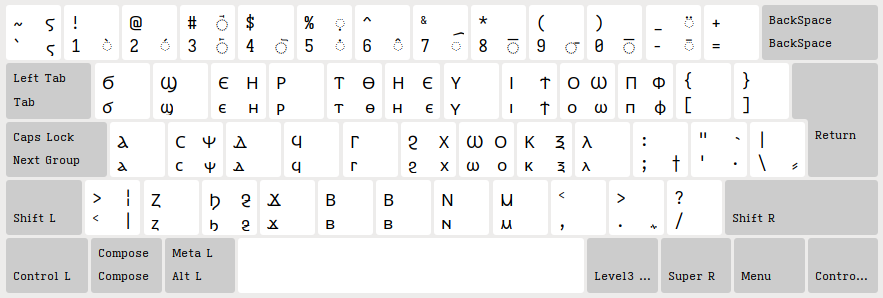
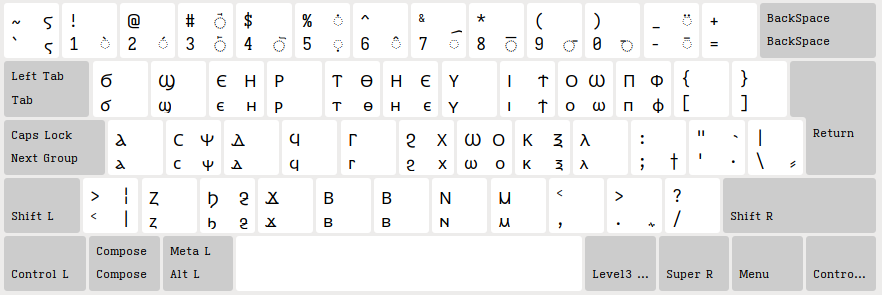
Fixed a few small issues with layout, updated readme

diff --git a/README.md b/README.md
@@ -13,12 +13,20 @@ The layout is based on QWERTY, with key assignments guided mostly by phonetic co
 
 Note:
 
-* right alt is used to input some characters. For example, the key labeled `t` normally produces a ⲧ, but with right alt you get a ⲑ
-* `v` and `b` are both mapped to ⲃ
+* `v` and `b` are both mapped to ⲃ (this might change in the future)
+* right alt (`AltGr`) is used to input some characters. For example, the key labeled `t` normally produces a ⲧ, but with right alt you get a ⲑ
+* `AltGr` can be combined with `Shift`: `AltGr+Shift+P` produces Ⲫ (uppercase ⲫ)
+* the six monograms of coptic alphabet are input using `AltGr`:
+    * ⲑ (ⲧϩ), ⲝ (ⲕⲥ), ⲫ (ⲡϩ) are input by combining the first letter of a monogram with `AltGr`: `AltGr+T (ⲧ)` for ⲑ, `AltGr+K (ⲕ)` ⲝ, `AltGr+P (ⲡ)` for ⲫ
+    * ⲭ (ⲕϩ), ⲯ (ⲡⲥ), ϯ (ⲧⲓ) are input by combining the **second** letter of a monogram with `AltGr`: `AltGr+H (ϩ)` for ⲭ, `AltGr+S (ⲥ)` ⲯ, `AltGr+I (ⲓ)` for ϯ
+* combining diacritics are input by using `AltGr` on the number row keys:
+    * `AltGr+Minus` produces combining macron (◌̄), which can be used to mark syllabic consonants like ⲙ̄, ⲛ̄, ⲃ̄, etc.
+    * `AltGr+8`, `AltGr+9` and `AltGr+0` produce middle (◌︦), left (◌︤) and right (◌︥) parts of a multi-character overstroke
+* `AltGr+Apostrophe` produces a middle dot (·), `AltGr+Shift+Apostrophe` produces coptic morphological divider (⳿)
 
 ## Installation
 
-1. Copy file `copt` into `/usr/share/X11/xkb/symbols/`
+1. Copy file `coptic.xkb` into `/usr/share/X11/xkb/symbols/cop`
 2. Add the layout into `<layoutList>` block of `/usr/share/X11/xkb/rules/evdev.xml`
 ```xml
 <layout>
@@ -26,17 +34,19 @@ Note:
 	<name>coptic</name>
 	<shortDescription>coptic</shortDescription>
 	<description>coptic</description>
-	<languageList><iso639Id>copt</iso639Id></languageList>
+	<languageList><iso639Id>cop</iso639Id></languageList>
   </configItem>
 </layout>
 ```
 3. Use `setxkbmap` to set up your layouts, for example:
  ```shell
- $ setxkbmap us,copt -option lv3:ralt_switch -option grp:caps_toggle
+ $ setxkbmap us,cop -option lv3:ralt_switch -option grp:caps_toggle
  ```
 
 For more info on `setxkbmap` and Xorg keyboard configuration in general, see [ArchWiki](https://wiki.archlinux.org/title/Xorg/Keyboard_configuration#Using_setxkbmap).
 
 ## Alternatives
 
-See [vwbusguy/ibus-coptic](https://github.com/vwbusguy/ibus-coptic) for IBus implementation of Coptic input. 
+See [vwbusguy/ibus-coptic](https://github.com/vwbusguy/ibus-coptic) for [IBus](https://wiki.archlinux.org/title/IBus) implementation of Coptic input. 
+
+See [Antinoou](https://www.evertype.com/fonts/coptic/) page on [evertype.com](https://www.evertype.com) for another option that uses [SCIM](https://wiki.archlinux.org/title/Smart_Common_Input_Method).
